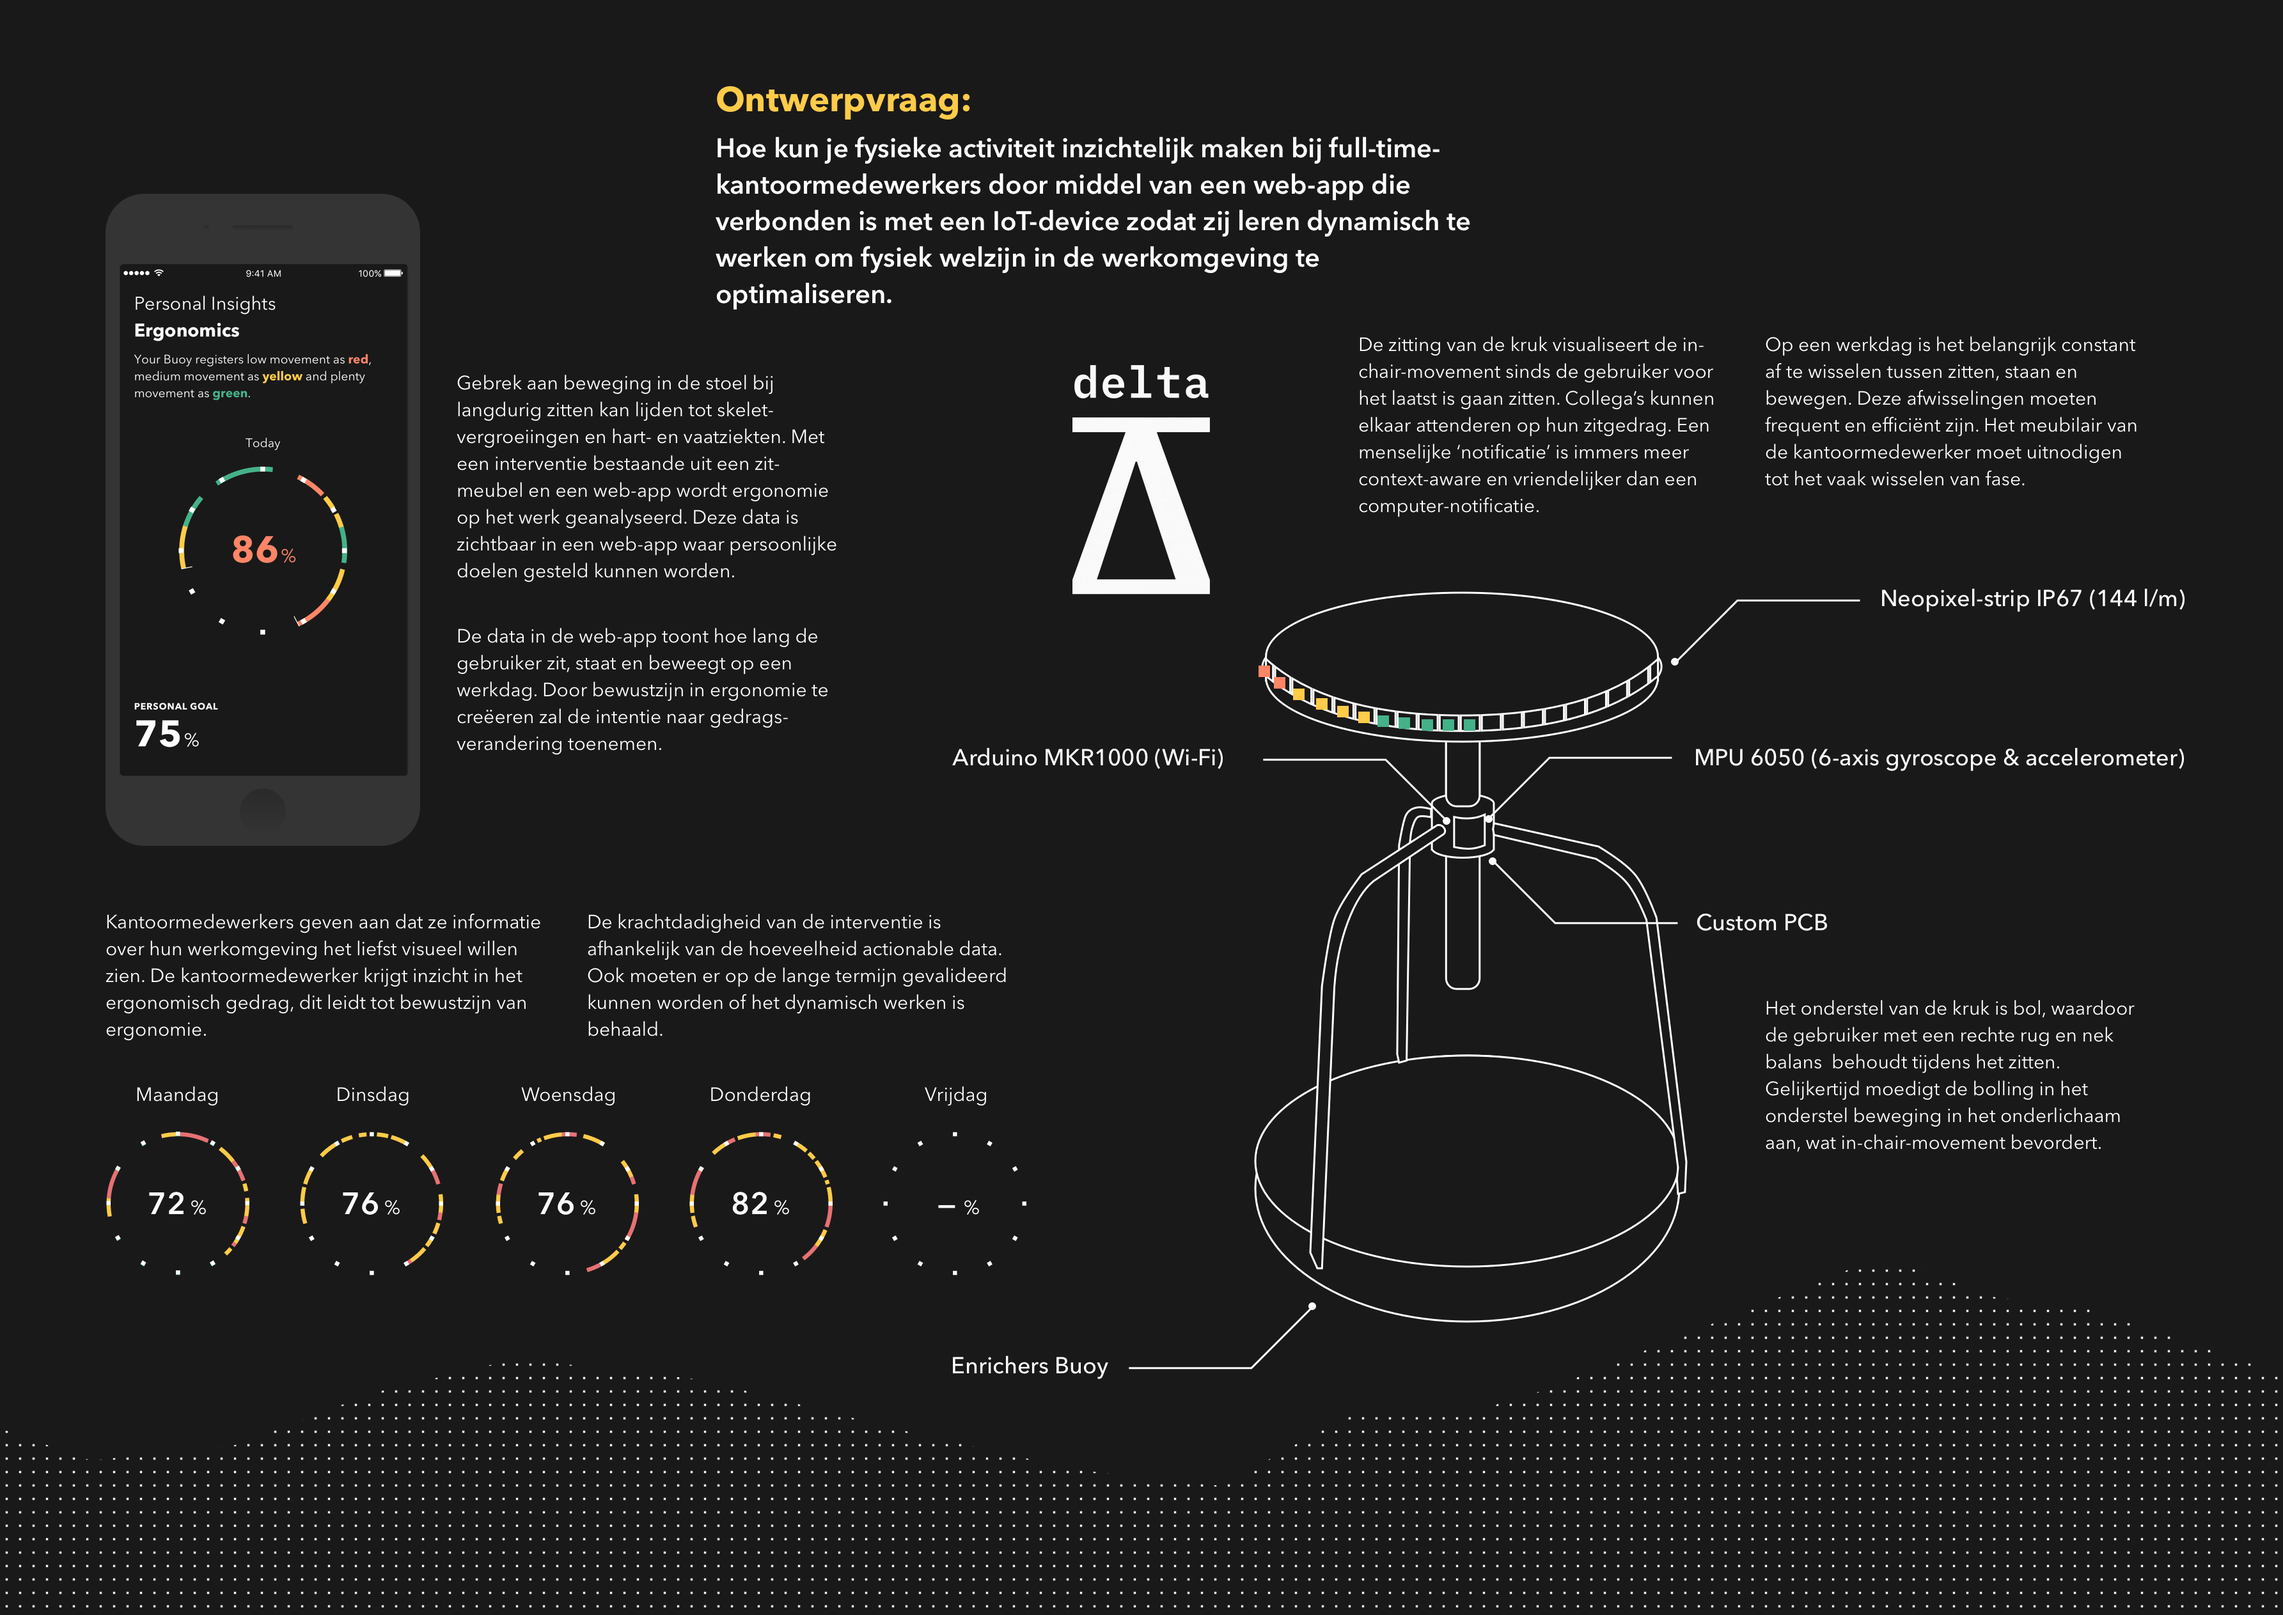
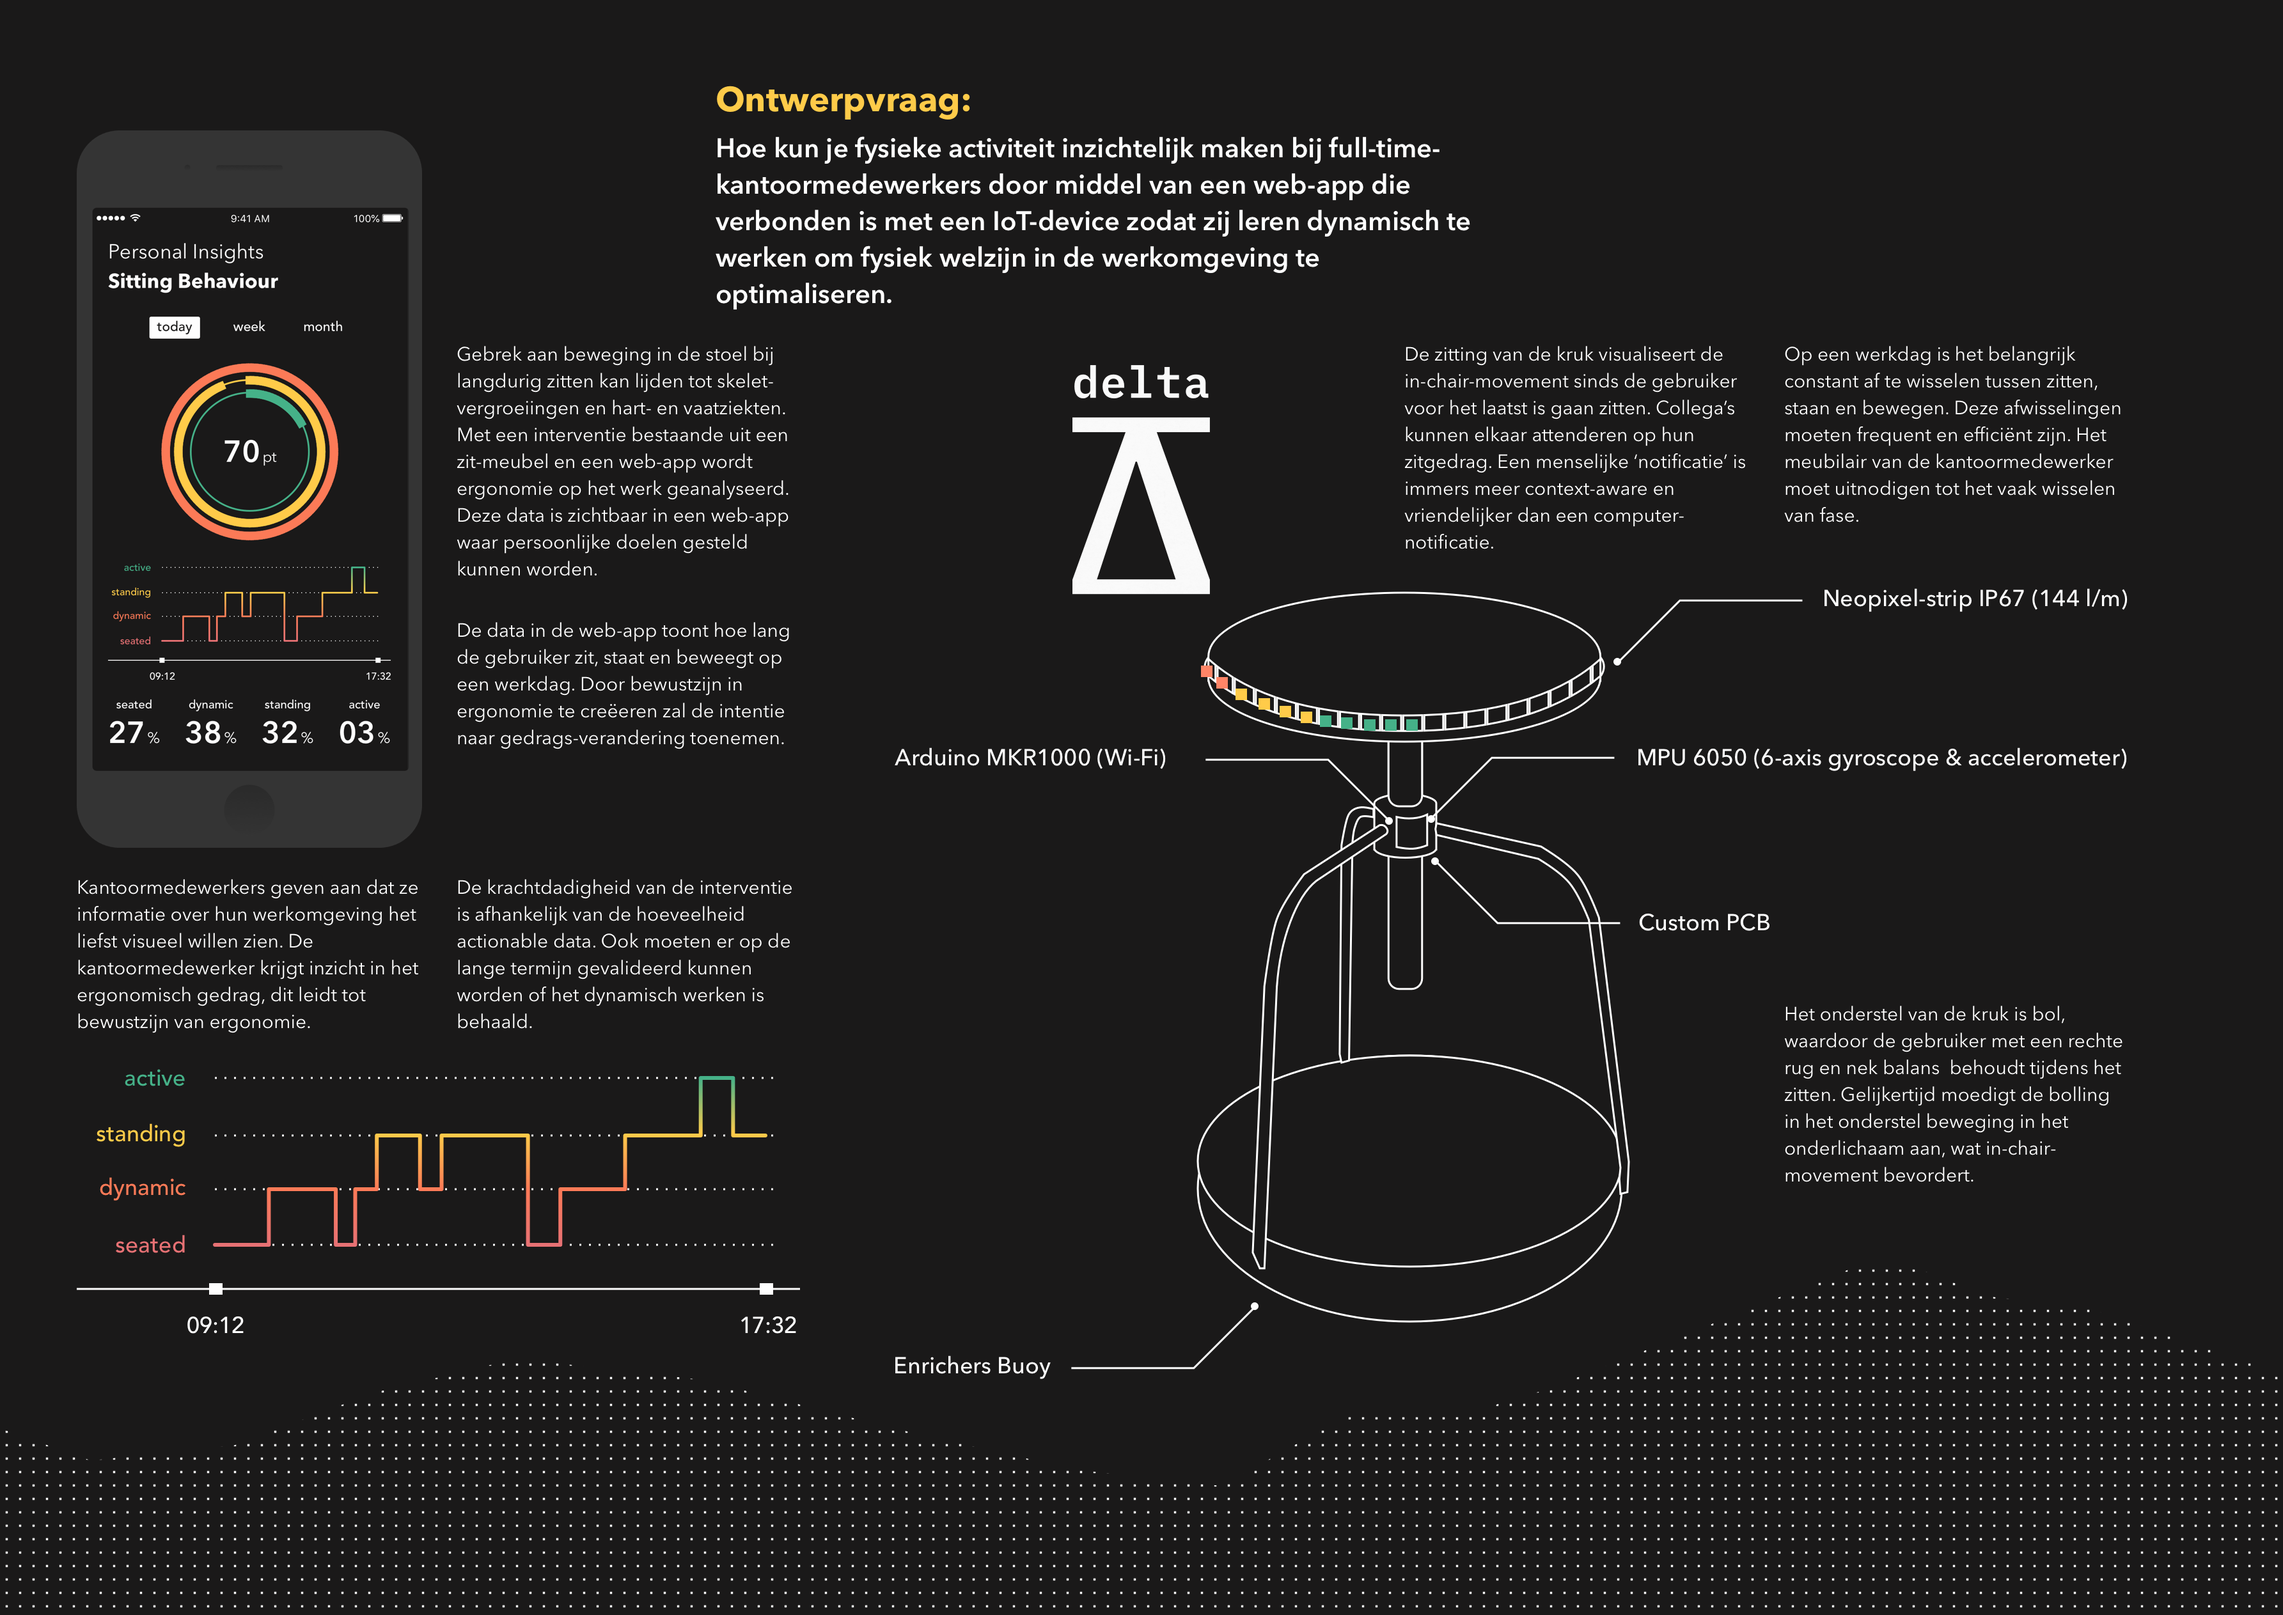
new header with new data-visualisation design

diff --git a/library/design-rationale.md b/library/design-rationale.md
@@ -34,9 +34,10 @@ Alan Klement stelde een alternatief voor: de Job Story. Deze zou er als volgt ui
 > "When (*situation*), I want to (*motivation*), So I can (*expected outcome*)"
 
 Om dus een inventarisatie te maken van de wensen van full-time kantoormedewerkers omtrent een ergonomische interventie heb ik de volgende reeks aan job stories opgesteld:
-1. Wanneer ik lange werkdagen maak op kantoor, wil ik inzichten krijgen in mijn zitgedrag, zodat ik aan het einde van de dag kan zien of mijn fysieke activiteit voldoende is geweest.
-2. Wanneer ik geconcentreerd aan het werk ben en niet bewust ben van mijn ergonomisch-onverantwoorde zitgedrag, wil ik *ubiquitous* hierop geattendeerd worden, zodat ik op tijd mijn zitgedrag kan verbeteren.
-3. Wanneer ik voor een langere periode mijn zitgedrag heb gemeten, wil ik mijn metingen over een langere periode bekijken, zodat ik kan zien of ik beter zitgedrag aanleer.
+1. Wanneer ik op werk ben, wil ik mijn huidige zitgedrag kunnen zien, zodat ik weet of mijn ergonomische status nog toereikend is.
+2. Wanneer ik voor een langere periode bezig ben met dynamisch werken, wil ik mijn voortgang kunnen zien, zodat ik weet of ik progressie behaal.
+3. Wanneer mijn zitgedrag uitstekend begint te worden, wil ik een beloning voor mijn gedrag, zodat ik gemotiveerd blijf om het gedrag voort te zetten.
+4. Wanneer ik merk dat mijn collega's minder goed zitgedrag vertonen, wil ik ze stimuleren om meer dynamisch te werken, zodat ik het dynamisch werken meer terug zie in de werkcultuur.
 
 ## Productvisie
 
